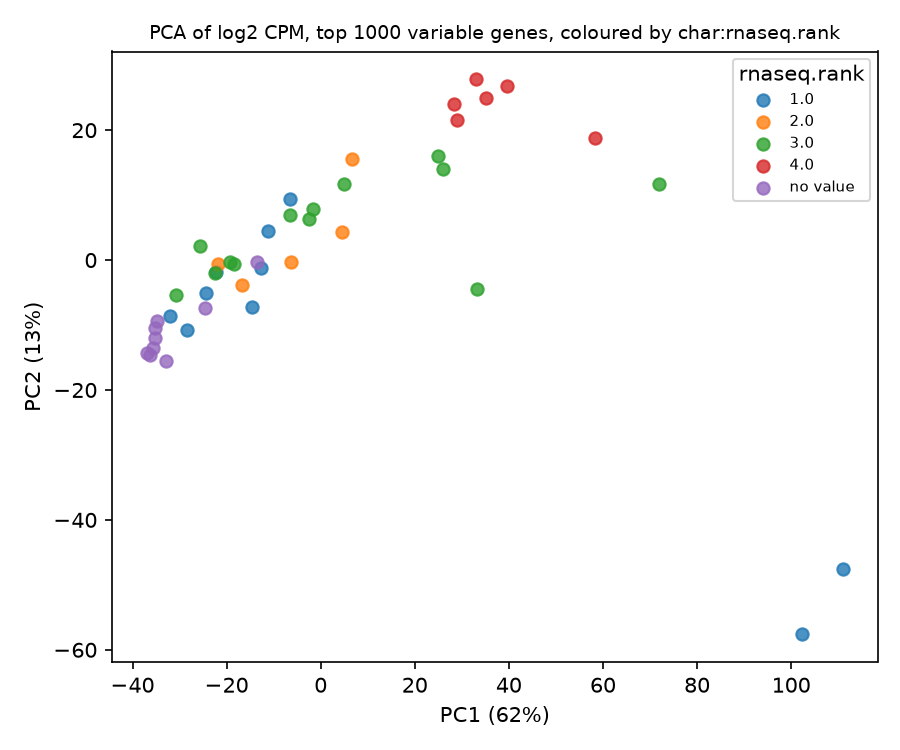
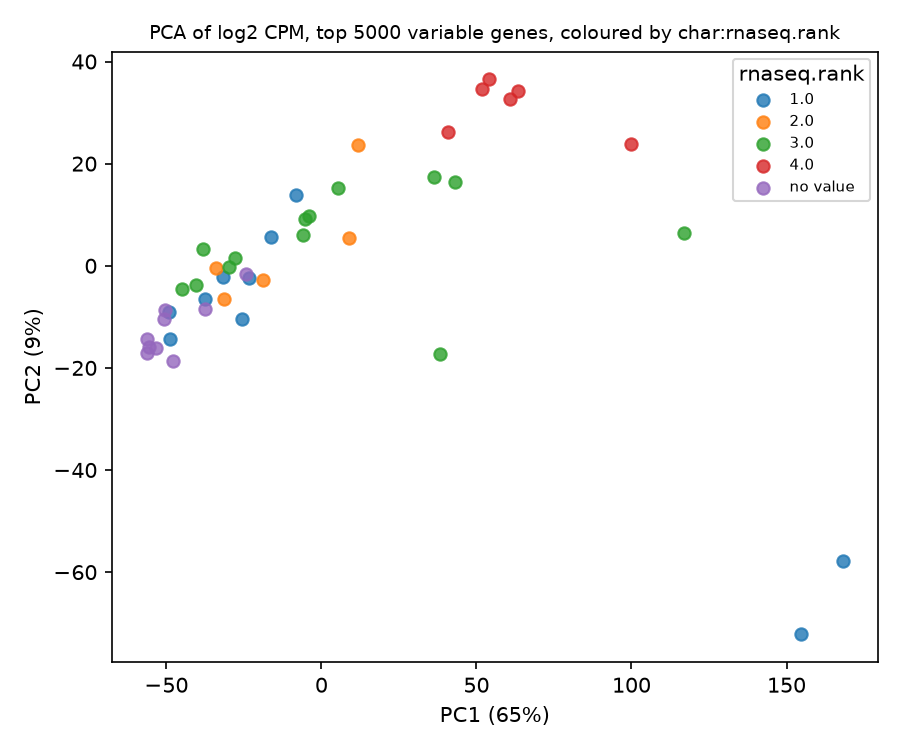
Results for top 5000

diff --git a/practical/scripts/step2_qc_exploration.py b/practical/scripts/step2_qc_exploration.py
@@ -112,7 +112,7 @@ def main() -> None:
     # log2 CPM and PCA on the most variable genes.
     cpm = filtered / filtered.sum(axis=0) * 1e6
     logcpm = np.log2(cpm + 1)
-    n_top = 1000  # TODO(student): does the choice of n_top change the picture?
+    n_top = 5000  # TODO(student): does the choice of n_top change the picture?
     top = logcpm.var(axis=1).sort_values(ascending=False).index[:n_top]
     x = logcpm.loc[top].T
     x = x - x.mean(axis=0)
